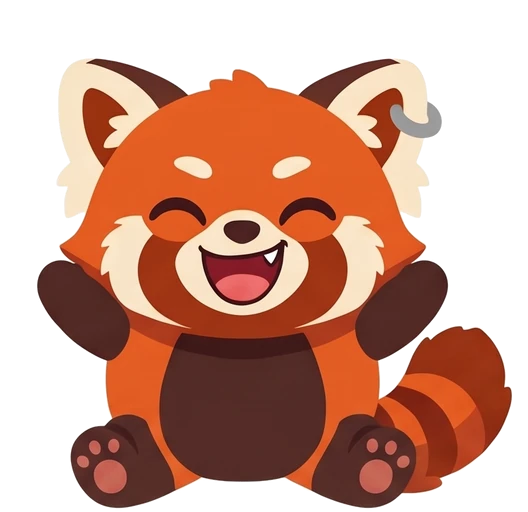
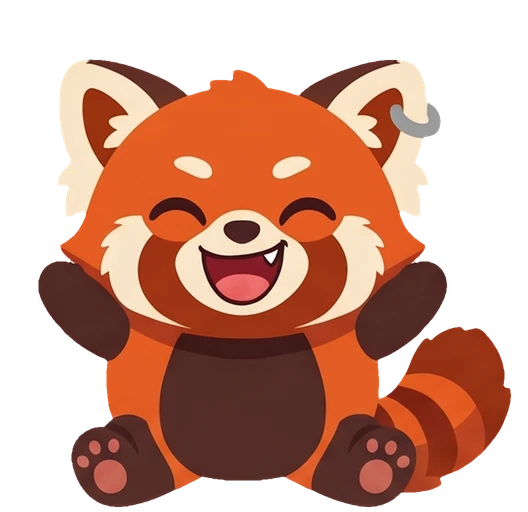
Bordes de Tama limpios, sin contorno claro
Claude-Session: https://claude.ai/code/session_018rENqMkCvc8G4z7XLaYB4Q

diff --git a/sw.js b/sw.js
@@ -1,5 +1,5 @@
 // Hanashi service worker: keeps the app shell available offline.
-const CACHE = "hanashi-v6";
+const CACHE = "hanashi-v7";
 const SHELL = ["./", "./index.html", "./manifest.webmanifest", "./icon-192.png", "./icon-512.png", "./icon-maskable-512.png", "./apple-touch-icon.png", "./wanakana.min.js", "./tama-rig.js", "./tama-neutral.webp", "./tama-happy.webp", "./tama-talk.webp", "./tama-listen.webp", "./tama-think.webp", "./tama-oops.webp"];
 
 self.addEventListener("install", e => {
